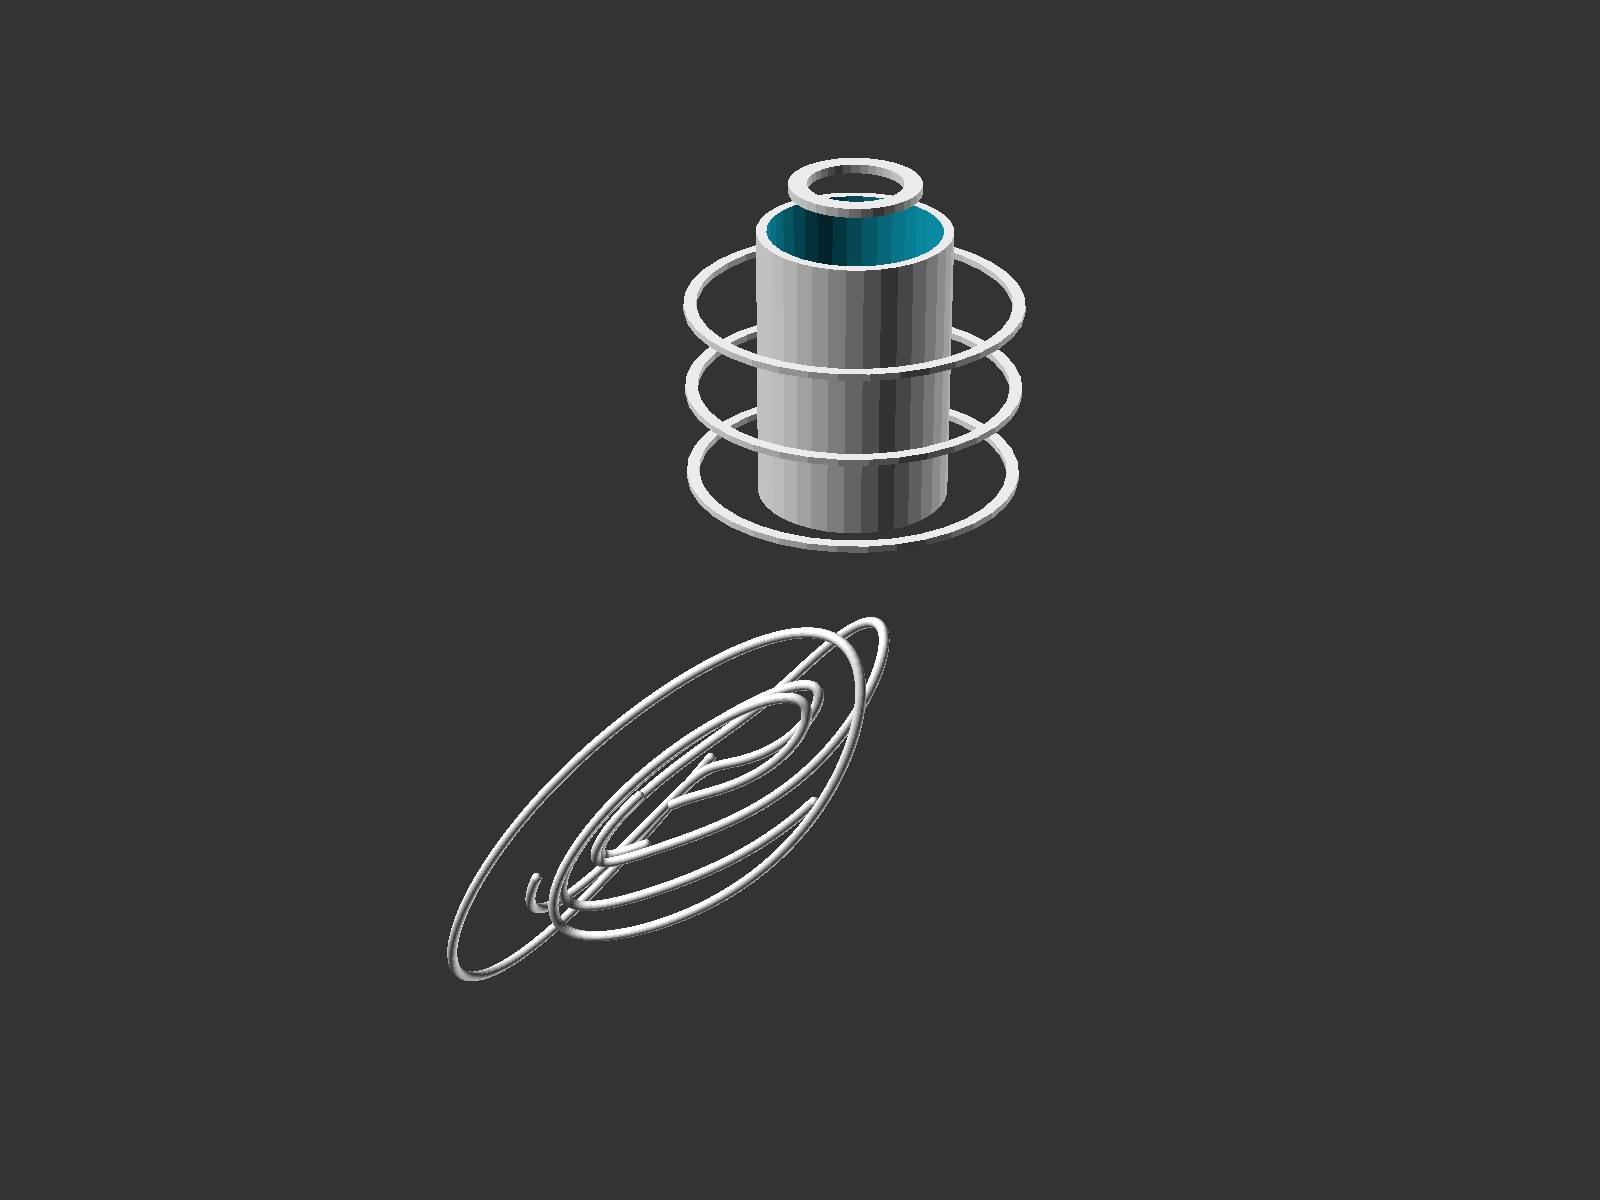
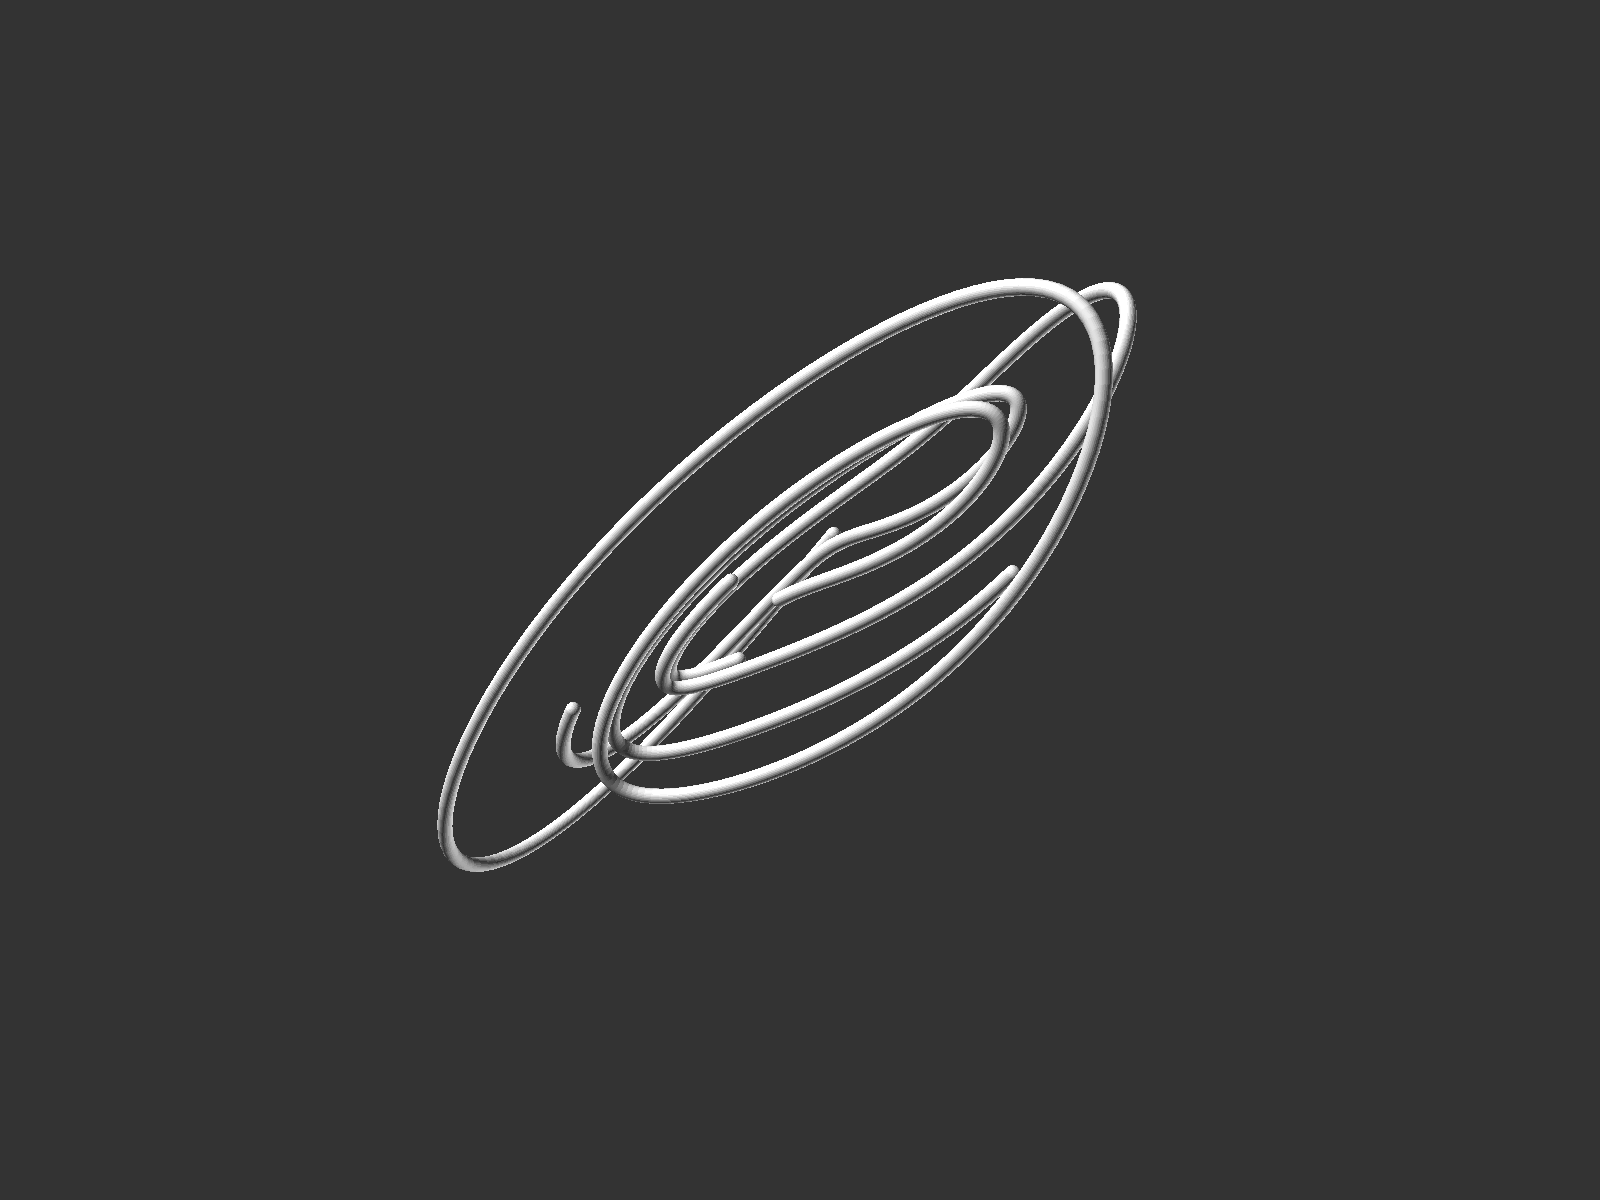
Strip lamp hardware from Fracta Chen study

Changed region(s): [[0.25, 0.1233, 0.7188, 0.8325], [0.4062, 0.3083, 0.4375, 0.3392]]

diff --git a/fracta-chen/README.md b/fracta-chen/README.md
@@ -1,13 +1,12 @@
 # Fracta Chen
 
-Fracta Chen is a lamp concept inspired directly by the Chen chaotic attractor and its double-scroll trajectory structure.
+Fracta Chen is a geometry study inspired directly by the Chen chaotic attractor and its double-scroll trajectory structure.
 
 ## Concept
-A pendant shade generated from a thickened sampled Chen attractor path, forming two dense lobes joined by a narrower transition waist around a central bulb cavity.
+A thickened sampled Chen attractor path, forming two dense lobes joined by a narrower transition waist.
 
-## Design goals
+## Goals
 - Build in OpenSCAD
 - Use BOSL2 where useful
-- Design around IKEA-standard bulb, socket, and cable hardware
 - Preserve the recognizable twin-lobed Chen attractor silhouette
-- Turn a chaotic trajectory into a printable single-piece luminous cage
+- Study the spatial character of the attractor before turning it into a lamp

diff --git a/fracta-chen/progress.md b/fracta-chen/progress.md
@@ -3,15 +3,14 @@
 ## Current status
 - Folder initialized
 - Chen attractor selected as the concept basis
+- First pure attractor geometry created in OpenSCAD
 
 ## Design concept
 - Fractal basis: chaotic attractor / double-scroll flow
-- Lamp type: pendant
-- Intent: a twin-lobed porous shade built from sampled attractor trajectories
+- Artifact type: geometry study
+- Intent: a twin-lobed attractor form built from sampled trajectories
 
 ## Next steps
-1. Create scaffold folders and notes
-2. Build first sampled Chen attractor model in OpenSCAD
-3. Render iso/front/side/top views
-4. Review lobe clarity, bulb clearance, and printability
-5. Iterate and commit
+1. Review the raw attractor silhouette in four views
+2. Improve topology and continuity if needed
+3. Later decide whether to convert it into a lamp-specific structure
